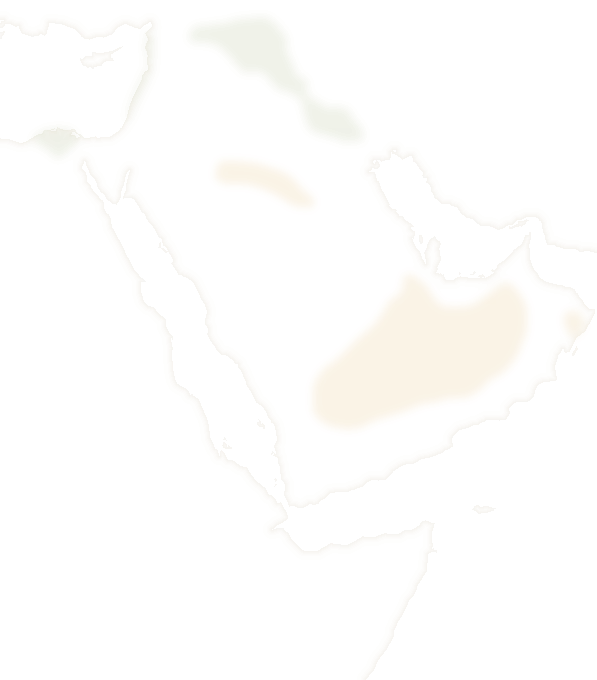
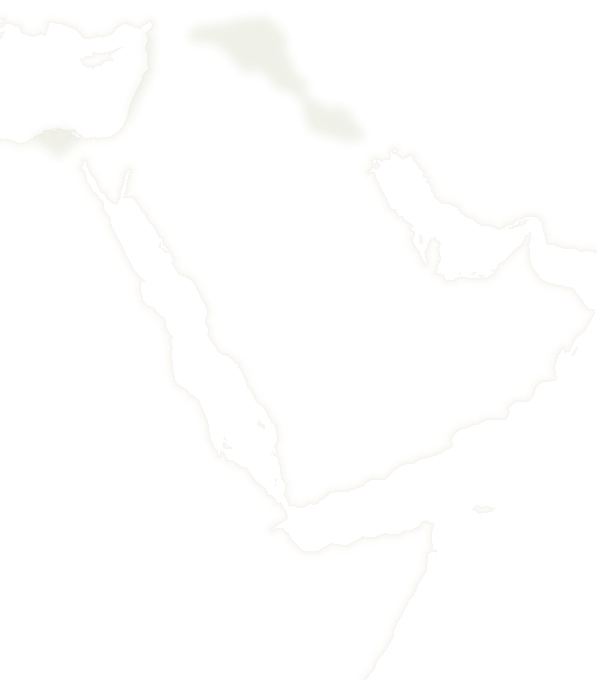
Deserts keep the land's colour: no sand tint or dune marks
Claude-Session: https://claude.ai/code/session_01N8euJch7UjcT7aCurQBqdT

Changed region(s): [[0.5427, 0.4324, 0.8744, 0.6176], [0.392, 0.2471, 0.4824, 0.2779]]

diff --git a/app/src/data/terrain.ts b/app/src/data/terrain.ts
@@ -1,6 +1,5 @@
 // Generated by scripts/build-terrain.py — Natural Earth 1:10m (public domain), same projection as land.ts.
-// Sand seas (outlines, for the dune texture), rivers and natural lakes; modern canals and reservoirs are left out.
+// Rivers and natural lakes; modern canals and reservoirs are left out.
 export const MAP_IMAGES = { relief: 'map/relief.webp', wash: 'map/wash.webp', depth: 'map/depth.webp', width: 1195.0, height: 1360.0 };
-export const SAND = 'M1152.9 670.1L1145.7 674.7L1138.3 669.2L1131.1 653.9L1127.9 636.5L1132.8 624.7L1139.8 622.6L1150.1 623.3L1160.4 628.9L1167.4 641.9L1166.3 651.6L1160.6 661.7L1152.9 670.1ZM591.0 363.4L610.0 385.8L622.1 395.1L626.4 400.9L626.7 409.0L623.1 414.3L595.3 412.3L581.1 407.3L559.1 392.9L542.2 384.3L505.4 370.8L486.9 368.0L458.6 368.4L444.2 365.9L433.9 358.1L431.9 351.1L432.1 341.5L434.4 332.3L438.4 326.0L443.0 323.8L479.0 323.7L499.1 325.4L526.1 330.7L562.7 343.3L574.0 349.0L591.0 363.4ZM900.8 615.1L925.7 615.2L946.4 608.2L968.6 594.3L1004.8 566.9L1013.2 564.8L1021.3 568.0L1028.4 574.4L1044.8 597.9L1052.6 615.8L1052.7 657.7L1051.0 667.8L1033.9 710.6L1017.3 732.1L1002.6 746.0L981.4 758.3L957.9 780.1L944.6 789.7L937.3 792.9L928.6 794.7L895.0 796.9L866.7 804.2L846.9 806.8L801.0 824.8L755.3 838.7L723.5 854.2L692.5 858.3L662.9 853.2L647.1 845.2L632.4 831.7L629.6 827.9L626.9 817.4L626.4 785.5L629.1 769.6L636.6 752.2L650.4 736.0L681.6 712.0L716.3 677.0L744.7 653.9L753.0 645.0L763.6 629.8L775.1 608.0L782.6 599.9L800.3 586.5L806.1 577.4L807.9 555.3L811.8 550.2L820.4 549.8L830.2 554.6L846.7 566.8L855.8 576.1L869.2 598.6L877.4 607.7L887.9 612.7L900.8 615.1Z';
 export const RIVERS = 'M417.2 -17.0L418.7 -17.0L425.8 -20.1L429.8 -20.7L430.9 -19.5L434.0 -18.5L434.9 -16.3L436.5 -15.1L447.5 -15.1L449.3 -13.3L449.1 -11.7L452.5 -10.3L455.3 -8.0L453.3 -4.6L458.1 -3.3L457.0 0.4L457.8 4.1L456.8 5.0L457.7 6.4L463.6 7.7L467.5 6.6L473.4 6.2L476.5 7.7L479.6 6.8L486.8 9.1L492.0 9.3L493.6 10.3L505.9 10.4L510.2 9.2L512.1 10.0L514.0 9.8L517.6 16.3L516.6 22.2L517.9 23.2L523.8 22.7L530.0 26.0L531.1 28.5L533.7 28.6L536.0 30.9L535.3 33.1L536.9 37.5M536.9 37.5L539.7 41.4L541.0 41.8L541.8 41.1L541.6 43.1L542.8 45.5L541.8 45.5L542.0 46.3L543.9 46.5L545.7 48.4L548.6 48.0L552.0 50.4L550.8 50.9L551.0 51.5L552.7 50.9L554.3 52.3L556.1 51.8L555.6 53.1L556.6 53.5L556.6 54.1L553.8 54.3L553.5 55.9L551.0 57.9L550.9 59.8L557.7 60.4L559.4 61.2L559.0 62.7L560.2 63.6L562.0 64.4L564.8 64.1L564.5 64.8L566.6 66.8L567.1 68.5L566.6 68.5L567.8 70.5L571.5 74.3L571.3 76.7L572.7 78.7L573.1 80.8L572.4 83.3L573.6 84.8L572.5 85.9L571.9 85.5L571.7 88.2M571.7 88.2L571.0 88.4L570.9 90.6L572.0 92.2L569.2 94.2L570.1 95.8L569.1 97.8L570.5 101.1L570.2 103.5L573.8 106.2L573.2 108.8L575.9 109.4L574.5 111.1L575.0 112.0L580.3 116.4L580.1 117.3L582.0 118.8L579.6 122.7L581.7 128.4L583.9 129.3L585.4 131.5L585.0 132.3L586.1 133.5L586.9 137.9L588.9 138.8L589.3 145.1L591.1 148.5L591.1 151.1L593.6 154.7L596.4 156.6L604.8 157.8L606.2 158.7L608.4 158.3L611.6 159.9L614.2 162.6L614.1 164.8L612.0 168.7L613.4 171.0L611.9 174.8L609.5 175.5L609.0 178.0L609.1 180.8L610.5 182.2L610.4 184.0L612.1 187.0L611.7 188.2L614.2 188.4L615.8 190.7L615.7 193.1L618.1 194.6L619.0 197.1L620.4 196.9L622.4 199.4L625.1 199.1L624.7 201.0L626.5 200.5L627.9 201.7L628.8 201.1L633.7 205.0L637.1 204.2L635.8 206.1L638.7 208.5L644.8 209.0L645.3 209.9L644.4 212.3L646.3 212.4L647.3 214.1L649.0 214.1L650.8 217.1L653.9 216.2L654.5 218.6L656.7 217.8L658.3 218.5L659.5 217.4L660.9 217.8L662.3 219.3L664.4 218.7L665.0 219.9M571.7 88.2L571.7 88.2M665.0 219.6L667.1 218.2L669.4 218.0L670.9 215.6L676.1 213.8L678.2 214.4L680.9 217.4L685.2 218.9L690.2 218.8L697.3 221.2L700.2 225.7L698.6 227.3L699.1 229.7L698.0 231.5L699.0 234.8L701.6 237.0L704.4 237.5L705.8 242.1L708.2 245.2L710.0 245.5L713.2 244.2L714.6 245.4L714.2 247.6L715.1 251.5L716.4 252.2L716.8 254.3L720.1 258.7L723.5 261.1L723.5 263.2L725.7 265.0L725.0 267.1L726.0 270.1L725.4 272.8L726.5 274.0L725.2 275.7L725.7 279.2M150.0 1375.5L144.3 1368.0L134.1 1356.8L131.5 1350.4L131.1 1346.3L131.9 1340.0L130.8 1336.8L134.2 1332.7L134.3 1327.7L140.5 1311.1L140.0 1303.6L141.8 1298.7L140.7 1289.6L136.9 1282.3L135.5 1281.7L133.9 1276.8L132.2 1274.9L130.3 1267.7L127.4 1263.5L126.6 1260.0L124.9 1259.2L123.9 1255.1L121.1 1250.4L117.6 1246.8M117.6 1246.8L114.9 1245.0L114.4 1243.3L106.3 1238.6L104.7 1235.3L101.4 1232.6L98.7 1224.7L94.9 1219.7L95.8 1219.3L95.8 1217.7L93.1 1213.7L94.4 1208.2L95.2 1207.9L94.2 1207.7L94.7 1207.0L90.6 1200.3L91.0 1199.9L89.3 1197.5L89.0 1195.4L87.8 1195.5L87.8 1194.8L86.8 1195.3L86.3 1194.0L86.6 1190.1L87.3 1189.9L86.5 1188.0L87.5 1187.4L86.8 1185.5L88.1 1181.6L85.0 1177.7L84.9 1175.7L86.2 1172.6L83.2 1169.6L84.2 1168.2L81.8 1160.4L88.1 1152.0L88.2 1147.7L86.8 1146.1L87.9 1145.4L90.5 1140.7L93.5 1138.6L98.8 1138.6L105.2 1140.0L110.5 1139.4L116.7 1142.7M116.7 1142.7L125.1 1144.8L127.1 1146.2L131.1 1145.4L134.9 1142.1L136.4 1139.3L135.8 1137.0L137.0 1135.2L138.4 1134.8L139.7 1133.2L143.0 1132.6L146.4 1129.9L148.5 1129.3L150.3 1126.2L154.1 1123.2L156.0 1119.7L157.5 1118.6L159.9 1112.6L158.5 1109.3L158.0 1102.8L153.4 1101.9L153.5 1098.0L161.9 1088.8L165.3 1087.8L168.6 1082.7L172.7 1080.2L173.5 1078.6L173.3 1067.6L174.6 1064.2L175.8 1057.0L178.1 1050.9L176.4 1043.7L176.3 1041.7L177.3 1040.2L176.3 1031.1L179.1 1020.2L179.4 1017.3L177.6 1009.2L178.1 1006.0L177.5 1003.7L179.6 998.5L177.3 993.3L172.8 990.0L170.9 985.7L170.9 981.3L172.3 977.2L172.2 974.9L168.4 973.1L167.1 971.1L167.0 968.2L162.1 963.3L161.4 958.8L159.7 954.4L157.4 951.1L155.3 944.8L156.9 938.7L156.1 935.2L157.2 931.1L160.8 927.2L162.2 924.0L165.2 921.5L165.1 916.8L167.4 909.0L167.6 906.2L166.1 901.0L167.7 894.6M1501.6 39.1L1494.5 43.0L1489.2 37.4L1485.2 35.6L1485.5 32.4L1484.3 30.8L1480.0 29.8L1477.3 31.2L1475.2 28.7L1471.0 31.2L1466.0 32.6L1463.4 29.7L1461.0 28.7L1460.0 26.4L1456.6 24.6L1446.5 25.5L1444.9 26.3L1439.2 25.2L1435.9 27.1L1434.5 26.0L1430.0 26.7L1427.2 25.0L1424.4 24.6L1422.0 22.4L1413.6 19.7L1411.4 17.2L1405.9 15.8L1402.3 13.4L1396.7 11.6L1393.2 11.7L1391.6 10.9L1387.2 2.3L1384.9 -0.3L1379.3 -4.2L1365.6 -8.7L1358.2 -13.1L1354.9 -17.6L1350.1 -21.3L1347.0 -27.3L1343.5 -29.9L1343.0 -33.8L1339.8 -38.3L1335.2 -40.1L1332.6 -43.6L1327.9 -45.5L1324.5 -48.8L1321.2 -49.9L1316.6 -52.9L1310.4 -52.9L1307.9 -54.0L1306.4 -56.2L1306.6 -62.0L1304.2 -63.4L1302.5 -66.1L1297.8 -66.7L1295.9 -69.7L1292.7 -71.2L1292.4 -72.5L1290.0 -74.7L1289.2 -77.6L1286.6 -80.4L1285.4 -84.6L1285.9 -87.8L1282.8 -97.2L1276.8 -100.0L1274.7 -103.1L1273.4 -106.4L1271.0 -109.5L1269.0 -115.4L1268.9 -120.0L1265.8 -124.4L1256.7 -130.0L1253.5 -131.1L1248.5 -132.0L1247.6 -131.7L1246.8 -129.4L1243.0 -130.8L1241.9 -133.2L1239.5 -135.6L1235.7 -136.5L1231.4 -139.1L1221.3 -146.7L1219.3 -150.3L1215.5 -151.1L1212.2 -156.0L1212.1 -158.7L1206.3 -160.4L1204.4 -165.2L1196.9 -170.7L1191.5 -173.0L1187.3 -172.5L1181.6 -174.7L1173.8 -181.0L1173.3 -182.6L1171.3 -182.3L1168.5 -184.0L1169.7 -186.6L1169.9 -189.2L1169.5 -190.0L1165.3 -191.4L1166.1 -194.9L1163.8 -199.1L1162.6 -199.9L1163.7 -202.6L1163.6 -204.5L1162.6 -208.6L1160.8 -210.7L1162.3 -212.4L1162.2 -213.8L1158.7 -219.2L1159.7 -222.0L1163.4 -221.7L1167.1 -223.7L1167.4 -230.3L1165.9 -232.2L1161.9 -234.1L1159.7 -237.9L1163.6 -241.6L1167.3 -243.1L1173.9 -243.6L1177.8 -245.9M120.9 315.0L114.6 311.1L111.7 311.4L110.9 309.1L109.3 308.3L108.9 306.6L105.8 306.7L105.8 305.5L107.5 305.1L106.2 304.0L106.5 301.9L105.7 300.1L106.5 298.2L105.4 297.9L106.0 296.5L104.7 295.5L103.6 291.3L104.3 289.5L102.9 289.4L103.4 288.0L105.2 286.9L103.1 286.9L104.3 285.3L102.9 284.6L103.9 283.1L102.7 280.9L103.2 280.7L100.8 276.3L99.0 275.4L96.0 272.0L94.3 272.1L93.9 270.5L93.1 270.5L94.0 266.9L92.7 265.8L91.8 266.1L90.6 264.6L90.5 262.8L89.6 262.3M117.5 313.0L116.2 310.9L115.9 306.7L114.1 305.0L116.0 304.7L115.8 303.4L116.7 303.9L117.1 302.2L120.5 299.3L120.5 297.6L121.8 297.9L122.1 293.6L120.0 286.5L121.5 285.9L120.8 284.7L121.6 284.5L121.1 284.0L121.8 283.1L121.6 281.5L123.1 280.6L124.6 278.4L126.8 277.8L129.8 272.7L130.9 273.1L131.3 272.1L134.9 272.2L135.4 270.3L137.3 269.6L136.6 268.9L137.9 268.4L138.8 264.7L142.3 263.1L142.1 261.7L143.6 259.0M283.8 204.0L282.9 211.2M277.2 267.0L278.3 264.0L279.3 254.3L282.3 249.4M293.7 176.1L291.9 177.9L291.4 179.5L288.2 181.8L286.2 184.4L283.6 192.7L283.8 204.0M282.9 211.2L282.2 212.7L283.0 217.6L282.0 219.2L283.0 220.3L281.7 223.6L282.5 225.3L282.0 225.3L282.8 230.5L281.4 235.6L281.7 236.5L280.9 237.7L281.8 242.2L281.0 243.2L282.3 249.4M277.2 267.0L276.4 270.8M402.3 1255.8L399.8 1259.2L402.5 1264.5L405.6 1266.3L406.7 1267.8L408.5 1271.1L409.3 1275.1L411.3 1276.7L417.5 1278.3L419.8 1280.3L423.4 1279.3L425.7 1281.3M424.8 1280.6L427.9 1284.3L427.7 1287.8L429.0 1288.3L429.9 1290.7L431.6 1291.4L431.7 1290.5L434.1 1290.3L437.0 1292.0L437.9 1293.5L437.6 1294.9L436.1 1296.2L436.1 1298.1L436.9 1298.8L442.4 1299.3L447.3 1304.2L448.9 1303.7L455.1 1305.8L467.9 1303.4L474.4 1297.4L482.6 1292.0L487.2 1291.6L487.8 1293.2L491.1 1294.3L490.7 1294.9L492.8 1300.6L494.7 1302.0L495.0 1304.2L496.6 1305.6L498.3 1311.6L497.9 1313.0L501.3 1319.6L505.3 1323.6L507.0 1326.5L506.3 1326.8L507.5 1329.5L507.5 1332.4L509.9 1335.6L511.3 1336.2L511.6 1335.7L513.9 1339.7L517.1 1342.4L518.9 1345.5L520.5 1347.1L521.5 1347.1M295.1 922.6L294.9 925.6L296.3 927.9L294.8 935.2M283.3 879.9L284.3 881.8L284.1 884.6L283.0 885.7L284.7 891.9L284.6 895.2L289.9 903.8L290.2 907.2L292.0 909.2L292.9 911.7L297.1 916.0L298.5 919.3L298.2 921.2L295.8 921.4L295.1 922.6M283.2 880.0L280.3 876.2L278.2 870.8L275.6 869.2L271.7 863.3L271.3 858.8L259.9 842.6L259.2 838.1L253.1 835.5L246.7 829.8L243.7 829.6L233.3 823.6L231.6 821.3L231.7 818.7L230.3 816.6L223.5 813.4M337.3 1153.9L337.2 1159.2L338.3 1160.5L340.1 1160.7L341.7 1162.9L342.7 1162.8L343.6 1165.5L343.5 1169.3L341.5 1170.7L341.4 1171.6L342.4 1172.4L342.6 1174.4L345.4 1175.7L349.2 1181.3L350.5 1184.5L354.3 1189.1L358.7 1190.8L358.2 1197.6L359.2 1201.0L357.9 1209.6L351.2 1221.2L349.3 1227.4L349.9 1229.5L352.9 1231.9L355.2 1231.2L356.4 1231.9L353.4 1234.8L351.2 1245.0L348.3 1245.2L345.5 1248.9L344.3 1253.0L338.4 1254.0L336.0 1255.6L333.8 1251.8L331.9 1251.6L329.9 1252.9L328.7 1252.1L324.6 1251.6L316.4 1259.0L310.7 1261.3L307.8 1263.8L302.8 1262.2L299.2 1266.3L299.8 1267.8L298.0 1269.4L298.1 1272.1L296.7 1273.4L297.2 1275.6L298.4 1276.2L298.9 1280.2L297.9 1281.7L296.9 1287.2L296.3 1296.8L294.8 1299.1L295.7 1302.7L295.1 1303.6L296.3 1304.7L296.6 1306.6L298.0 1305.2L299.8 1304.9L300.2 1305.8L302.7 1305.0L303.0 1302.6L303.8 1301.9L302.5 1301.5L303.8 1299.3L304.5 1299.8L303.5 1300.6L304.8 1300.9L305.5 1302.5L306.8 1301.8L306.6 1303.9L305.3 1305.1L306.1 1307.7L304.8 1307.7L306.3 1311.3L304.3 1313.3L300.9 1312.9L301.4 1314.9L302.0 1314.9L301.4 1315.5L300.4 1315.1L300.6 1316.6L299.8 1317.2L299.9 1318.2L300.4 1317.6L301.2 1318.4L300.6 1320.4L301.2 1320.9L301.6 1319.5L301.7 1321.1L302.7 1321.4L301.7 1324.9L300.9 1325.0L300.8 1326.1L297.9 1329.5L297.7 1332.0L299.2 1333.3L299.3 1336.0L300.4 1338.4M1254.9 271.8L1257.2 277.4L1261.2 280.2L1262.4 282.0L1262.4 286.7L1261.6 287.5L1263.1 290.6L1263.4 297.6L1262.6 302.7L1264.2 305.7L1267.1 307.6L1273.4 308.7L1285.7 313.2L1290.5 313.3L1302.3 309.7L1309.3 309.5L1312.0 308.0L1314.1 305.6L1316.5 305.0L1322.5 299.8L1329.0 296.7L1340.1 298.8L1343.2 297.3L1348.0 289.2L1348.2 284.5L1351.2 278.7L1350.4 276.5L1351.4 273.0L1358.3 262.8L1357.3 260.2L1357.8 253.5M366.6 965.0L364.6 965.1L360.8 963.1L357.7 956.1L355.7 954.8L355.4 952.8L353.8 952.0L353.0 949.6L350.9 947.9L350.6 945.7L347.0 941.7L341.7 942.3L340.0 944.0L339.2 948.1L336.3 949.5L334.1 947.8L326.7 946.7L319.9 948.3L317.1 950.6L314.2 950.3L312.2 948.8L309.5 948.1L304.3 951.1L300.2 951.2L296.3 949.3L295.1 947.0L293.3 945.6L294.3 944.4L295.0 941.2L294.3 939.4L295.2 937.8L294.8 935.2M94.7 1209.3L95.6 1209.2L96.9 1200.0L98.9 1195.3L98.8 1189.5L99.8 1185.2L98.5 1180.3L99.0 1178.5L103.1 1176.7L106.5 1167.4L106.4 1163.7L104.2 1160.8L104.9 1158.3L108.0 1156.2L108.1 1153.3L114.0 1148.5L115.9 1146.3L116.3 1143.8L117.2 1143.0M521.5 1347.1L524.7 1348.8L524.8 1350.6L524.0 1350.9L525.7 1352.9L528.8 1354.0L529.8 1352.8L531.6 1354.6L532.8 1354.1L534.7 1357.1L537.7 1357.9L539.8 1362.5L543.3 1363.9L544.1 1366.7L544.0 1368.0L542.9 1367.0L542.5 1367.8L543.2 1369.5L541.6 1372.9L541.8 1376.0L540.6 1377.8L542.5 1379.1L542.0 1380.8L543.6 1383.1L542.2 1383.7L540.2 1387.0L541.5 1390.0L541.2 1394.3L544.5 1396.2L543.8 1396.8L543.6 1400.2L540.2 1404.6L536.7 1406.7L535.5 1408.6L536.5 1414.4L534.1 1416.0L533.3 1418.7L535.4 1423.4L533.3 1425.0L532.3 1427.8L531.4 1428.1L530.7 1426.2L528.6 1425.5L527.2 1428.2L530.3 1429.3L531.3 1430.5L531.3 1431.5L529.5 1430.5L527.8 1432.5L528.4 1434.2L529.3 1434.5L529.5 1436.6L530.2 1436.3L530.9 1437.4L534.3 1439.0L532.6 1441.0L532.7 1444.1L534.1 1445.3L534.2 1448.0L537.5 1450.6L536.9 1451.9L538.9 1454.1L539.5 1457.4L538.2 1459.2L539.2 1459.1L540.0 1460.5L538.3 1460.9L538.2 1461.9L539.5 1463.4L540.2 1466.7L540.9 1466.4L542.0 1468.5L543.7 1469.3L543.6 1473.1L545.6 1474.4L544.7 1476.8L545.6 1480.4L544.8 1482.6L545.5 1483.9L544.8 1485.0L545.2 1487.1L547.1 1487.0L547.4 1489.9L548.8 1491.0L550.4 1494.6L549.9 1496.5L550.8 1497.5L551.2 1500.7L549.8 1501.7L551.2 1506.5L550.6 1508.6L551.4 1510.3L551.0 1513.4L550.0 1513.6L549.6 1514.8L549.8 1517.7L547.3 1520.7L544.8 1521.5L545.2 1524.0L544.1 1524.6L545.6 1527.0L545.4 1529.6L546.4 1529.8M626.8 261.4L628.3 261.7L629.3 263.9L635.3 265.2L637.4 267.1L640.0 267.4L641.5 268.6L642.3 267.3L643.6 266.9M-208.3 1354.6L-205.7 1353.0L-203.7 1350.5L-203.9 1348.9L-201.2 1345.0L-202.1 1343.1L-202.0 1341.0L-198.3 1340.3L-196.8 1336.5L-197.1 1334.8L-194.7 1331.0L-192.2 1331.5L-190.6 1329.4L-191.1 1328.0L-190.5 1327.0L-187.6 1326.6L-186.1 1330.0L-183.0 1331.5L-180.4 1330.5L-176.8 1334.6L-171.3 1336.4L-170.0 1333.6L-164.8 1330.6L-156.2 1327.2L-151.3 1327.3L-151.2 1325.3L-150.2 1325.8L-146.0 1323.2L-143.7 1323.9L-141.6 1321.7L-140.2 1321.8L-139.7 1322.8L-138.3 1319.9L-135.6 1319.5L-134.5 1318.6L-135.9 1317.5L-134.6 1315.1L-133.3 1317.3L-133.1 1316.0L-132.2 1315.7L-130.2 1316.5L-128.7 1318.4L-126.9 1319.0L-126.4 1320.6L-124.3 1321.7L-125.0 1322.8L-122.1 1323.3L-117.7 1322.5L-113.6 1320.3L-109.2 1321.9L-107.2 1319.2L-103.6 1319.6L-100.6 1318.7L-99.0 1314.3L-100.6 1312.6L-99.2 1309.1L-98.0 1308.3L-98.5 1307.6L-94.0 1305.7L-93.2 1306.3L-91.8 1305.8L-91.7 1305.0L-90.3 1305.0L-89.6 1306.4L-88.8 1306.4L-89.3 1307.2L-86.2 1308.0L-84.3 1310.0L-82.5 1309.5L-81.2 1312.2L-79.5 1311.3L-78.0 1313.2L-78.0 1312.4L-76.3 1312.1L-75.8 1310.9L-73.7 1312.4L-71.2 1311.6L-71.4 1310.2L-70.5 1310.5L-69.9 1309.6L-68.8 1310.7L-67.3 1310.5L-66.3 1312.7L-65.5 1312.4L-64.5 1313.6L-61.2 1314.6L-60.1 1314.0L-57.4 1317.6L-55.9 1318.1L-52.4 1316.8L-51.2 1317.3L-47.1 1316.2L-44.5 1318.4L-43.6 1317.9L-42.3 1318.5L-38.8 1313.9L-34.6 1311.9L-26.1 1314.7L-23.9 1316.2M293.3 1250.4L291.1 1252.8L285.6 1255.1L282.8 1251.8L282.4 1250.0L279.4 1250.0L276.4 1251.5L275.0 1254.5L272.8 1256.7L273.8 1257.7L273.5 1258.2L271.8 1259.2L266.3 1259.7L264.8 1261.4L260.5 1259.7L256.3 1255.8L253.0 1255.4L251.2 1254.3L250.3 1252.6L247.8 1250.8L243.6 1249.9L242.8 1244.4L240.4 1242.6L234.5 1240.8L231.4 1237.4L230.8 1233.3L229.0 1233.5L225.3 1230.0L225.2 1226.0L224.3 1223.6L219.6 1218.6L215.1 1216.1L213.4 1213.7L210.5 1212.3L207.3 1212.3L204.0 1210.0L199.7 1211.2L197.6 1210.7L195.4 1208.7L188.9 1208.1L186.3 1203.3M360.8 -75.2L354.0 -74.8L341.3 -71.8L332.7 -68.4L330.9 -69.5L321.7 -67.7L316.1 -64.4L312.6 -59.8L302.9 -53.0L301.2 -51.0L297.3 -49.2L296.8 -47.0L293.0 -45.0L291.2 -43.0L287.2 -41.4L282.3 -41.7L279.9 -38.9L276.0 -39.1L273.3 -38.3L272.3 -37.4L272.3 -36.1L267.4 -33.1L262.3 -30.3L257.9 -29.6L252.1 -31.1L247.7 -30.9L243.8 -33.1L237.8 -34.5L231.3 -38.8L229.9 -40.9L224.9 -42.6L222.6 -42.5L220.4 -44.2L216.9 -44.4L211.9 -46.8L205.6 -52.3L203.7 -53.1L203.3 -55.5L202.0 -56.0L201.5 -57.0L202.9 -64.1L205.0 -65.9L203.4 -67.2L204.4 -68.3L204.8 -71.2L204.0 -72.1L204.7 -73.0L202.3 -74.8L202.2 -77.9L203.2 -79.2L203.9 -83.3L207.8 -86.1L208.5 -88.8L209.9 -90.0L210.1 -91.6L211.0 -91.8L211.4 -93.2L223.6 -94.3L225.2 -96.8L228.3 -99.3L233.1 -99.4L243.9 -105.4L248.2 -105.8L256.0 -113.3L256.4 -114.8L255.4 -115.3L256.4 -116.3L255.2 -119.0L252.6 -120.1L251.2 -119.4L241.3 -124.0L240.4 -125.1L240.9 -125.6L252.2 -126.0L256.8 -129.3L257.2 -130.8L259.2 -132.0L259.3 -133.0L265.6 -136.0L266.9 -133.3L268.7 -132.4L268.3 -132.0L274.1 -130.2L276.8 -131.0L278.3 -133.0L280.3 -132.3L284.8 -134.6L289.7 -134.8L293.0 -137.4L293.0 -140.6L295.6 -145.9M1154.3 35.0L1152.1 33.1L1148.9 32.3L1147.2 32.5L1143.6 34.9L1137.2 34.4L1133.8 33.1L1122.0 24.8L1103.3 20.4L1096.7 14.8L1093.2 14.2L1091.8 13.0L1084.1 13.4L1079.4 11.3L1071.3 11.2L1067.6 9.8L1065.1 7.3L1059.7 5.8L1056.7 3.2L1055.0 2.7L1043.6 3.4L1037.7 4.6L1031.0 1.9L1026.4 1.6L1021.9 -0.6L1013.1 1.9L1008.5 6.3L1002.9 9.5L1001.3 11.2L1000.3 13.9L1001.1 15.9L1000.3 19.0L997.0 21.3L995.1 20.8L985.9 23.1L979.2 23.8L976.6 23.0L975.5 21.3L973.7 21.1L967.4 23.7M182.2 560.5L181.6 564.2L183.7 570.1L181.4 578.4L182.8 580.3L184.6 587.7L180.8 591.8L179.3 592.1L174.3 601.1L171.5 603.6L170.7 609.1L166.3 611.7L163.3 615.2L160.3 614.6L158.8 611.6L156.3 610.0L152.2 611.0L149.2 612.7L146.2 615.9L144.2 621.0L140.3 622.9L127.7 634.0L126.0 637.0L124.9 643.1L123.1 646.0L119.5 649.3L118.6 653.1L115.4 655.6M182.2 560.5L182.0 550.8L183.2 547.9L183.9 542.3L182.2 540.4L184.3 532.5L184.0 529.2L181.7 523.8L182.3 519.4L180.6 515.8L170.3 508.7L170.1 503.0L167.4 498.0L167.6 496.6L171.6 494.5L174.8 489.0L177.9 487.9L178.1 487.1L176.6 484.7L178.7 479.7L177.9 475.5L173.6 472.8L172.0 474.4L165.6 475.5L163.4 477.3L161.5 476.6L159.3 478.8L157.9 475.9L155.6 474.3L153.7 471.3L151.6 471.1L150.9 473.2L150.0 472.8L149.8 469.7L142.8 463.5L142.2 458.3L141.0 457.3L138.3 458.3L138.7 455.0L135.8 454.0L135.5 452.4L131.6 448.0L130.0 443.7L125.2 439.1L122.5 433.7L119.4 433.0L118.1 431.2L116.3 431.9L116.2 429.2L113.4 428.7L110.8 426.1L111.1 425.1L107.5 423.2L106.4 421.6L107.0 420.0L106.5 416.9L108.3 412.9L107.8 408.0L106.2 405.9L106.0 398.5L102.6 394.7L102.4 387.1L105.9 382.1L105.3 379.7L106.0 374.9L108.6 369.6L108.7 366.8L112.4 362.3L114.0 358.8L118.0 355.1L120.3 350.7L120.0 342.9L122.5 338.1L122.1 335.0L123.4 333.2L122.1 330.7L123.1 327.8L122.8 324.6L120.3 319.7L120.9 315.0M212.6 780.4L212.4 772.4L211.4 771.0L208.0 770.3L207.6 769.6L207.4 763.7L208.4 760.9L207.7 752.8L202.6 749.2L200.9 743.1L199.8 742.3L197.3 741.0L188.9 738.8L187.3 739.4L185.6 741.6L181.8 742.6L179.1 746.6L178.3 746.3L176.3 748.6L173.9 753.4L168.4 754.1L166.6 758.7L163.7 761.5L162.2 764.4L159.6 763.5L156.5 764.3L150.7 768.6L150.6 770.1L151.8 771.6L151.1 775.2L148.2 777.1L144.9 777.3L142.0 781.8L141.1 785.4L138.3 787.9L137.4 789.9L131.8 796.8L128.9 798.2L124.2 798.3L119.8 800.6L113.7 798.1L110.6 797.8L108.0 794.8L103.4 793.2L100.8 786.9L100.9 781.3L96.6 776.3L95.6 771.6L92.8 765.6L92.1 761.1L92.9 758.0L93.0 751.1L92.4 748.8L92.9 745.2L91.7 739.7L89.6 736.6L89.6 733.5L88.3 729.1L86.0 726.9L87.2 724.7L91.9 722.8L94.8 722.8L96.6 721.1L97.2 718.4L95.7 713.2L96.6 709.1L94.2 706.1L89.2 705.5L85.8 696.7L88.5 691.3L87.3 689.2L87.7 687.9L88.7 687.2L94.9 686.5L95.9 685.7L96.3 681.0L97.2 678.9L101.4 676.3L100.0 673.1L100.6 671.8L104.9 668.6L108.5 667.3L111.0 664.8L111.8 663.5L110.6 661.9L114.1 658.5L115.4 655.6M212.6 780.4L212.6 780.4M216.2 785.9L212.7 782.3L212.6 780.4M167.7 894.6L169.2 888.8L168.7 886.2L169.9 884.7L169.5 874.5L172.1 870.0L174.8 868.7L175.1 866.9L176.6 866.1L177.1 864.6L181.6 860.0L186.5 858.1L189.3 859.1L191.4 858.6L197.1 853.6L201.4 852.5L205.3 850.1L209.1 849.4L214.0 841.5L214.2 838.2L212.9 835.8L214.7 832.7L214.8 828.3L218.5 823.8L220.4 817.7L223.1 815.5L223.7 807.8L223.1 799.1L221.4 789.4L220.2 787.3L217.2 787.3L214.8 781.5L212.6 780.4M403.4 1242.3L406.6 1242.8L411.5 1239.2L418.5 1237.1L425.9 1233.5L427.9 1231.8L427.7 1230.9L429.9 1228.2L429.3 1226.6L430.2 1225.2L435.0 1221.1L438.7 1222.8L445.0 1220.3L448.5 1221.6L450.9 1221.4L452.7 1223.2L463.8 1215.3L467.8 1213.5L473.7 1207.7L477.5 1202.2L483.9 1201.4L492.8 1194.8L497.2 1193.7L500.6 1195.1L503.5 1194.5L505.0 1196.3L505.2 1199.9L506.8 1202.4L506.7 1203.8L508.5 1204.5L508.7 1210.0L512.1 1213.5L511.6 1213.9L512.8 1215.1L512.7 1216.0L515.7 1217.3L515.9 1218.1L519.6 1219.0L521.3 1218.1L522.0 1218.6L524.2 1217.2L524.9 1219.5L526.4 1220.0L526.5 1221.5L527.7 1221.7L529.4 1223.7L529.5 1226.4L531.3 1231.1L531.1 1233.0L528.5 1240.7L526.3 1243.2L525.8 1248.2L523.3 1254.3L524.2 1256.2L527.0 1258.6L527.4 1261.4L529.9 1262.8L530.9 1264.7L533.3 1266.9L536.6 1267.4L538.1 1268.5L549.8 1269.3L553.4 1273.5L568.7 1281.5L577.9 1281.4L582.7 1284.9L586.6 1285.7L594.4 1292.2L598.8 1292.9L604.4 1296.4L607.3 1296.1L613.2 1301.0L616.8 1301.2L617.5 1303.1L619.2 1304.3L622.4 1309.4L625.6 1310.8L628.7 1316.6L633.1 1318.0L634.2 1320.9L635.1 1321.4M194.5 1182.5L192.2 1182.2L192.7 1180.3L191.3 1179.7L190.9 1177.4L189.9 1177.5L188.7 1175.1L185.9 1175.4L184.3 1177.5L183.7 1175.5L180.4 1174.5L179.9 1175.0L178.0 1174.6L177.0 1175.6L176.1 1173.7L174.5 1173.4L176.2 1169.7L175.2 1168.1L171.9 1166.7L170.9 1163.8L169.0 1165.5L168.1 1164.8L167.8 1163.0L164.9 1162.5L164.2 1161.2L164.5 1157.9L163.1 1156.0L159.3 1155.0L157.6 1156.1L156.6 1155.0L156.9 1153.9L154.0 1151.6L154.1 1149.8L152.0 1150.1L150.6 1147.9L143.0 1145.4L142.4 1147.1L141.4 1146.9L141.1 1148.0L139.6 1147.9L138.9 1148.7L137.6 1147.6L134.1 1146.9L133.6 1146.3L134.1 1145.2L132.1 1144.9M186.3 1203.3L191.1 1195.8L193.6 1194.4L193.0 1191.8L194.5 1189.8L192.8 1188.3L192.7 1185.7L193.2 1183.8L194.5 1183.2L194.2 1182.5M607.5 210.7L609.3 212.2L610.5 214.3L610.1 214.9L611.3 215.9L612.5 215.5L613.8 220.6L615.7 222.9L622.4 224.2L624.7 223.6L625.0 225.4L628.0 228.8L627.7 237.2L633.8 241.1L634.1 242.8L632.6 246.0L634.2 248.4L634.6 251.4L646.0 261.7L646.7 263.9L645.3 264.7L642.6 264.5M635.1 1321.4L636.0 1324.5L640.8 1325.8L642.5 1330.7L642.1 1332.1L644.1 1335.8L645.5 1341.4L649.2 1346.7L650.7 1352.8L653.6 1354.3L653.7 1361.2L655.8 1363.0L656.4 1367.4L656.9 1367.2L658.0 1370.2L659.7 1372.0L659.8 1373.1L658.9 1373.5L659.6 1374.9L658.8 1381.4L657.8 1382.1L657.7 1384.5L656.6 1385.0L654.8 1390.8L654.8 1394.0L655.7 1395.8L655.1 1397.6L654.1 1398.3L655.4 1403.8L654.9 1407.5L653.8 1408.6L654.3 1411.5L653.6 1418.8L648.5 1427.3L643.8 1428.3L643.5 1430.0L639.5 1434.1L631.9 1435.3L631.7 1436.9L629.4 1439.3L628.5 1442.4L625.0 1444.5L623.4 1447.5L621.3 1448.6L620.7 1449.9L617.5 1449.1L614.8 1450.0L614.1 1451.9L612.0 1454.0L607.4 1453.9L601.8 1458.5L596.6 1460.5L593.0 1466.1L590.5 1468.3L589.9 1468.1L589.7 1469.7L588.5 1471.0L586.6 1471.5L586.2 1475.3L577.1 1476.0L573.7 1478.5L571.1 1482.1L570.0 1488.4L568.9 1488.1M485.2 142.9L489.4 145.2L491.5 145.0L493.6 144.2L492.1 143.0L493.8 142.0L495.5 143.3L496.6 141.7L501.6 143.0L500.5 141.6L501.3 141.1L502.3 142.9L504.7 142.5L505.2 143.0L507.5 142.2L507.7 140.8L512.1 141.7L514.2 140.3L514.6 139.1L516.9 141.0L521.6 141.1L523.9 144.4L527.5 146.7L528.2 148.8L531.9 147.4L532.2 149.1L533.2 149.1L533.9 146.1L535.3 146.0L537.1 147.2L537.2 148.4L534.9 149.7L534.6 151.0L537.3 152.4L536.7 156.5L537.9 157.1L538.7 159.3L539.5 159.5L541.2 158.1L543.6 161.1L543.6 163.0L542.2 164.1L542.5 165.2L544.6 166.1L545.8 164.1L546.9 163.9L550.2 165.0L551.2 165.9L549.7 167.7L550.7 170.1L549.4 171.3L551.3 171.8L554.5 174.6L557.6 178.8L560.6 178.7L562.6 180.2L564.6 178.5L570.0 182.0L573.5 181.1L574.5 181.9L576.5 182.0L576.7 182.9L578.3 182.8L578.6 183.8L580.9 183.1L583.7 185.1L584.2 184.1L587.3 186.6L588.3 186.0L588.6 188.0L589.5 187.9L590.3 189.9L591.4 189.6L592.3 192.7L594.0 191.5L595.9 193.8L597.1 193.2L600.1 194.3L598.8 194.8L601.3 196.4L602.7 198.8L603.4 198.7L604.0 202.6L605.0 203.0L605.5 204.5L606.9 204.8L608.3 208.0L605.8 217.2L608.5 221.3L608.2 223.6L610.7 229.0L610.8 235.3L615.3 242.6L616.3 249.4L615.2 251.8L615.9 253.6L620.4 256.0L622.9 259.0L626.5 261.3L629.3 260.4L632.4 262.8L634.4 262.3L636.5 263.4L639.8 262.9L642.3 263.9L643.7 266.9M643.7 266.9L652.3 267.8M643.7 266.9L643.7 266.9M652.1 267.8L654.7 268.5L654.6 269.9L656.0 271.9L657.9 271.8L660.5 273.5L662.6 272.9L668.2 274.9L672.0 275.4L673.7 274.9L676.1 277.1L681.6 278.2L691.3 284.7L700.1 281.5L707.7 281.6L709.9 280.8L719.1 281.2L720.6 282.0L721.5 280.9L725.7 279.3L726.4 279.4L727.0 281.3M102.9 289.4L100.3 285.1L90.0 276.0L81.0 274.5L76.4 272.5L73.1 270.0M402.1 -32.5L403.8 -35.0L402.5 -36.2L402.8 -39.3L401.0 -43.1M391.0 -29.6L390.6 -27.7L387.9 -26.4L386.5 -23.8L388.5 -20.3L399.2 -16.8L403.7 -17.6L406.5 -14.6L409.2 -13.2L413.5 -13.9M410.1 4.0L410.0 6.8L407.8 7.0L406.6 8.5L409.1 7.9L409.5 9.5L406.6 10.4L407.9 11.5L403.3 12.1L405.9 13.9L397.5 15.0L391.9 20.0L385.6 20.4M502.5 -87.2L497.4 -80.2L495.8 -79.3L486.5 -78.4L480.6 -76.8L476.8 -77.6L473.8 -76.8L465.6 -78.1L462.4 -77.4L459.4 -77.6L454.1 -76.0L453.4 -74.2L457.5 -70.5L457.8 -69.1L455.5 -67.0L455.0 -63.7L451.9 -62.4L444.8 -63.4L432.3 -67.8L427.6 -68.0L422.2 -65.2L418.3 -64.5L412.6 -64.6L405.8 -63.3L401.6 -61.8L400.0 -60.0L397.0 -60.5L392.5 -58.1L390.5 -58.2L386.9 -56.0L387.2 -54.9L395.1 -49.0L396.6 -46.9L400.0 -46.6L401.0 -43.1M402.1 -32.5L398.7 -30.6L397.2 -31.3L396.5 -29.9L392.4 -30.3L391.0 -29.6M413.5 -13.9L415.1 -13.7L416.2 -12.3L415.1 -7.7L416.1 -7.1L419.1 -8.2L420.3 -6.1L419.2 -2.6L413.5 0.0L412.3 3.0L410.1 4.0M385.6 20.4L383.6 20.9L382.8 22.1L381.2 21.9L380.2 23.5L377.0 21.9L375.9 22.5L373.0 22.2L367.9 27.8L367.5 29.3L368.8 31.5L367.9 30.9L367.5 31.9L368.8 34.8L368.6 37.4L370.5 38.3L372.6 38.0L372.1 40.0L373.7 41.7L374.9 44.8L374.2 45.2L374.4 46.6M340.3 1045.8L341.0 1044.1L342.2 1043.7L345.7 1042.9L347.2 1043.9L349.7 1047.6L350.5 1054.7M342.8 1078.6L339.8 1076.3L337.8 1072.4L336.0 1072.3L334.7 1069.4L335.1 1067.0L336.8 1065.1L336.0 1060.2L338.8 1056.1L338.4 1054.6L340.2 1054.1L342.1 1051.1L343.6 1051.1L342.6 1049.2L340.4 1047.6L340.3 1045.8M394.4 85.5L390.6 85.6L384.6 83.3L380.0 81.1L376.6 77.8L375.7 74.4L377.9 71.0L380.5 69.4L380.3 66.3M374.4 46.6L375.9 51.6L377.1 52.8L381.3 54.1L384.4 58.9L383.4 59.5L383.0 61.5L381.0 62.4L380.3 66.3M394.3 85.5L400.4 86.0L401.8 84.6L401.0 84.4L401.2 83.6L403.3 83.5L403.8 82.7L412.1 82.8L414.1 84.6L419.9 85.6L421.4 86.8L425.6 86.0L426.3 88.0L429.2 87.7L431.5 88.8L432.8 88.3L433.0 89.6L434.0 88.2L438.5 90.7L439.4 89.9L440.8 90.6L442.0 92.7L441.9 95.0L442.7 96.4L444.0 96.4L443.5 97.2L445.0 98.9L446.2 98.6L450.3 101.6L452.2 104.2L451.9 105.2L454.5 106.9L456.6 107.6L456.8 108.5L458.1 107.7L457.6 109.3L459.1 108.8L460.4 109.3L460.8 110.5L463.7 111.5L463.0 112.6L464.1 114.6L464.2 116.7L465.7 117.3L464.7 118.6L466.5 120.5L467.8 120.4L469.2 121.7L469.8 124.7L470.4 125.2L471.4 124.7L472.0 128.1L474.2 128.8L476.7 131.3L478.2 130.8L479.1 132.1L478.3 133.2L479.4 134.0L480.6 133.2L481.4 134.9L482.7 135.3L482.4 136.9L483.4 138.9L482.6 140.0L482.9 141.3L485.2 142.9M238.2 1048.7L238.3 1052.4L239.7 1056.4L253.1 1068.1M238.2 1048.7L237.6 1041.9L235.5 1034.5L237.1 1031.0L237.2 1025.4L233.8 1021.7L231.1 1021.0L229.6 1019.4L229.7 1017.9L231.0 1016.4L229.2 1013.9L229.4 1009.0L226.5 1006.5L225.5 1004.3L223.7 1005.4L224.9 1002.9L223.3 1001.1L223.7 999.5L221.9 997.2L223.2 995.1L223.0 993.6L221.1 993.2L222.2 990.5L219.6 988.9L219.2 987.2L217.9 987.9L215.7 986.7L213.4 987.1L211.4 983.3L211.9 981.1L210.1 978.2L210.1 976.9L208.0 976.2L209.8 972.2L209.3 971.1L207.7 971.0L207.3 969.9L210.1 969.1L207.6 968.0L207.0 966.7L209.5 965.5L209.9 963.5L208.6 961.5L210.3 960.9L210.6 960.1L209.6 958.5L211.1 957.6L212.1 954.4L210.6 951.7L209.5 951.6L209.9 948.4L207.2 946.0L207.0 942.6L205.9 943.2L205.3 940.7L203.9 940.0L199.4 930.0L198.6 930.8L198.2 930.3L198.1 928.4L197.1 927.8L194.8 923.3L195.0 919.3L193.6 917.4L193.0 914.6L190.9 913.0L189.9 910.8L186.8 908.6L182.7 907.8L178.8 905.7L175.9 903.1L175.5 901.0L172.5 898.2L170.8 895.3L167.6 894.7M274.5 1114.0L273.2 1111.8L273.7 1107.7L272.1 1103.8L271.6 1100.1L266.9 1097.1L266.4 1095.3L268.9 1084.3L267.6 1079.9L268.6 1075.7L265.1 1073.0L263.8 1070.7L254.9 1069.8L253.1 1068.1M88.5 1426.7L91.1 1415.0L90.8 1411.4L88.3 1405.4L79.6 1404.5L78.4 1405.0L70.9 1400.1L67.1 1399.0L64.7 1397.0L56.6 1396.0L55.8 1392.5L56.5 1389.8L55.5 1388.0L50.5 1388.6L48.5 1387.8L45.6 1383.1L42.6 1380.3L42.7 1378.4L40.4 1375.5L37.8 1376.8L36.7 1375.8L36.5 1376.7L35.2 1376.6L33.2 1377.9L29.8 1376.2L28.9 1376.8L24.1 1375.7L21.9 1376.2M21.9 1376.2L14.1 1373.4L12.8 1374.0L12.2 1375.3L9.7 1375.7L6.4 1371.0L1.9 1370.2L-1.0 1372.0L-5.0 1372.3L-8.8 1374.2L-13.5 1373.2L-19.0 1374.3L-20.3 1373.6L-21.1 1371.7L-24.9 1370.2L-26.0 1367.0L-28.1 1365.7L-28.9 1366.5L-31.2 1366.6L-30.4 1373.9L-32.8 1375.0L-34.9 1377.3L-35.2 1379.7L-37.7 1378.2L-43.2 1379.8L-44.8 1376.9L-44.5 1367.2L-46.6 1365.7L-47.9 1360.1L-50.9 1359.3L-56.2 1363.5L-60.1 1369.0L-65.1 1371.2L-66.8 1373.8L-69.7 1374.1L-72.5 1373.2L-73.8 1371.2L-77.7 1371.6L-80.1 1372.9L-80.6 1377.7L-82.4 1379.0L-87.3 1376.2L-93.9 1379.2L-96.4 1378.4L-101.1 1379.7L-102.5 1378.6L-106.9 1383.1L-110.4 1382.8L-112.2 1384.2L-113.4 1381.2L-114.5 1380.6L-120.2 1380.0L-123.1 1381.5L-125.5 1380.0L-128.7 1381.0L-131.4 1378.7L-135.9 1377.6L-142.5 1371.6L-145.4 1371.9L-150.2 1371.0L-153.2 1372.4L-157.8 1371.7L-159.3 1368.9L-164.0 1365.8L-166.2 1365.7L-168.3 1367.2L-171.5 1366.5L-173.6 1367.5L-181.2 1363.9L-185.3 1365.6L-187.2 1364.4L-190.1 1365.8L-193.1 1365.3L-196.0 1366.6L-201.7 1362.9L-202.4 1361.0L-204.2 1359.8L-205.6 1355.3L-216.3 1354.0L-219.3 1351.9L-224.0 1350.2L-228.1 1350.5L-233.9 1348.3L-237.1 1348.2L-241.3 1350.2L-247.4 1348.9L-250.7 1346.7L-253.5 1348.3L-257.2 1346.4L-258.6 1344.2L-266.2 1341.9L-270.1 1343.1L-277.1 1343.4L-281.9 1338.8L-281.7 1335.1L-284.0 1332.9L-286.1 1329.1L-289.9 1327.7L-292.4 1324.9L-298.6 1321.0L-302.8 1319.9L-305.3 1316.1L-308.9 1314.6L-314.9 1313.8L-320.8 1314.8L-322.2 1316.5L-327.3 1319.6L-328.8 1322.0L-331.8 1322.4L-333.5 1324.3L-335.7 1329.4L-342.5 1337.6L-345.3 1344.0L-348.3 1345.5L-351.9 1345.1L-352.7 1345.8L-353.4 1347.8L-350.3 1353.2L-349.3 1358.2L-349.5 1361.7L-350.5 1363.9L-351.1 1372.9M350.5 1054.6L350.9 1058.0L359.0 1060.5L363.9 1067.5L368.6 1071.0L377.3 1073.6L384.5 1074.0L387.5 1076.4L389.7 1076.4L391.4 1079.0L392.8 1083.8L392.3 1086.8L393.1 1089.0L392.5 1092.8L391.0 1095.7L392.0 1105.2L390.5 1110.2L389.4 1111.3L389.1 1114.3L382.6 1115.3L380.6 1117.8L369.6 1122.8L365.8 1125.6L362.3 1126.3L358.8 1123.5L355.9 1119.7L349.8 1117.5L348.5 1119.3L347.8 1119.1L346.9 1116.2L344.3 1115.8L343.0 1114.6L342.5 1113.3L343.4 1109.8L340.3 1109.5L337.8 1107.9L328.0 1105.8L327.0 1104.9L319.4 1104.8L318.2 1103.8L318.2 1101.7L317.4 1100.9L314.9 1102.1L314.7 1104.4L312.7 1105.9L311.5 1108.2L311.4 1110.7L309.3 1113.6L307.2 1114.5L303.9 1113.9L298.0 1114.5L294.6 1118.8L292.8 1119.1L288.6 1118.0L288.9 1120.6L288.3 1121.1L286.4 1121.5L285.3 1119.7L279.9 1115.7L277.9 1114.8L276.6 1115.6L274.5 1114.0M727.0 281.3L732.7 288.6L736.7 290.2L737.7 296.6L740.2 298.0L742.2 300.5L751.7 302.1L753.2 303.7L754.3 307.0L758.3 307.5L762.1 311.9L761.1 314.2L763.8 319.9L766.7 321.6M150.0 1375.5L150.2 1376.5L147.8 1377.5L146.0 1380.0L142.4 1379.1L142.5 1378.6L137.9 1380.5L134.3 1386.6L131.2 1395.3L127.5 1400.2L126.1 1403.9L125.9 1407.2L128.4 1409.9L128.8 1412.2L127.7 1413.5L127.8 1415.3L129.9 1419.2L131.8 1420.0L130.0 1422.2L129.8 1424.0';
 export const LAKES = 'M104.9 -10.8L108.0 -11.0L106.7 -6.0L109.2 -4.9L110.8 0.4L107.4 5.9L103.5 1.6L106.5 -3.1L106.2 -4.4L102.9 -6.8L102.8 -8.9L104.9 -10.8ZM130.2 15.6L129.4 15.7L129.1 14.9L129.2 11.3L124.1 3.3L123.9 2.0L127.7 0.9L133.0 5.2L134.5 8.8L136.2 8.2L138.3 11.8L138.4 12.9L131.7 14.6L131.6 15.8L130.2 15.6ZM347.4 1050.4L347.0 1048.0L346.3 1047.3L343.9 1046.8L341.6 1047.6L340.7 1047.0L340.6 1045.7L339.9 1046.0L339.3 1047.9L338.7 1046.8L337.6 1046.4L337.1 1044.8L335.8 1044.6L336.7 1033.2L338.6 1030.3L341.2 1028.7L342.3 1029.6L342.7 1031.2L345.5 1031.7L346.4 1031.4L347.1 1029.4L348.3 1028.4L349.6 1029.2L350.8 1028.4L354.7 1027.8L358.5 1035.5L357.5 1040.8L356.2 1043.2L354.4 1043.8L355.0 1046.5L353.1 1047.6L350.5 1054.7L348.3 1054.7L347.1 1053.4L347.3 1052.1L348.9 1051.8L347.4 1050.4ZM285.3 206.0L285.1 209.9L283.8 211.3L282.9 211.2L280.7 207.2L281.0 205.9L283.5 204.1L284.9 204.7L285.3 206.0ZM324.8 1409.2L325.2 1410.8L324.4 1411.4L325.0 1420.5L322.5 1423.6L319.6 1424.2L318.6 1423.1L318.1 1417.9L316.6 1415.5L315.3 1414.8L315.0 1410.8L313.0 1406.1L308.5 1402.5L308.0 1400.8L306.7 1401.5L305.6 1400.7L303.5 1400.5L304.3 1391.5L299.8 1389.9L298.6 1387.8L296.8 1386.4L296.5 1378.4L295.9 1378.3L296.3 1380.1L295.7 1380.7L295.3 1380.2L294.9 1377.5L292.8 1374.8L292.5 1371.2L293.5 1368.3L293.3 1361.6L295.9 1355.3L295.6 1343.1L296.9 1336.9L298.3 1334.6L298.9 1334.6L299.9 1339.0L300.9 1337.6L299.7 1335.9L300.4 1334.5L302.7 1334.5L303.5 1335.1L303.4 1333.5L304.5 1333.4L305.7 1335.0L305.0 1335.4L306.1 1338.1L306.5 1342.3L305.8 1346.4L306.8 1348.6L306.8 1352.0L307.6 1352.7L307.9 1354.2L305.5 1361.5L308.7 1369.9L307.9 1372.2L306.8 1372.8L306.6 1373.6L306.5 1378.4L307.9 1385.2L307.1 1387.1L309.6 1390.3L310.2 1392.3L312.8 1395.1L313.7 1399.6L318.6 1403.9L323.3 1404.1L324.5 1404.8L324.8 1409.2ZM282.3 249.4L283.3 249.9L283.4 250.8L282.1 258.5L282.8 261.3L281.9 266.7L280.6 267.8L280.1 267.3L280.5 265.3L277.9 267.1L276.9 266.9L276.1 259.4L276.9 257.3L276.6 255.4L279.2 250.8L280.3 249.8L282.3 249.4ZM668.5 24.0L668.8 25.5L667.5 25.0L666.0 25.8L665.2 27.1L662.8 28.6L661.1 28.2L661.0 27.1L659.5 27.6L658.1 29.4L657.2 34.0L656.0 35.0L654.0 34.2L652.1 35.2L649.6 32.1L648.1 31.6L646.7 29.4L645.4 25.5L646.9 24.4L645.8 21.0L644.6 19.8L645.4 17.1L644.1 15.8L644.6 15.4L643.6 13.2L644.6 12.2L644.3 9.6L643.1 7.8L641.1 6.5L640.3 6.8L637.1 5.7L636.6 1.8L637.1 0.5L638.2 -0.6L641.6 -1.5L642.3 -4.5L641.3 -6.6L640.1 -5.2L639.0 -6.4L636.7 -5.1L635.0 -5.5L635.0 -7.0L636.7 -8.3L636.6 -10.0L638.3 -10.7L648.3 -10.6L652.9 -6.6L653.6 -3.8L652.5 -1.7L653.1 0.5L651.8 1.1L652.3 1.6L650.0 4.0L650.6 8.1L653.3 10.9L654.2 10.5L654.3 9.5L658.9 9.3L662.5 11.5L663.0 10.9L663.2 12.0L664.6 13.4L664.3 14.3L659.5 14.4L661.2 15.5L661.9 17.4L664.4 19.0L666.8 23.1L668.5 24.0ZM655.1 26.3L655.7 26.4L654.6 24.1L655.0 23.3L653.4 22.5L653.8 23.5L652.9 24.0L654.7 25.0L655.1 26.3ZM659.2 20.5L659.7 20.8L659.6 19.9L657.4 19.7L656.8 18.9L655.9 20.5L657.7 21.6L659.2 20.5ZM373.4 1255.3L373.8 1255.1L374.3 1256.6L376.2 1257.8L378.6 1256.2L379.0 1258.0L377.5 1260.5L378.0 1262.0L377.0 1262.0L376.5 1264.0L374.8 1265.2L373.7 1267.4L373.5 1269.8L371.1 1271.3L369.1 1274.2L367.8 1278.0L367.2 1276.4L366.5 1278.2L363.3 1280.0L361.7 1279.6L362.5 1275.3L367.0 1272.0L367.8 1272.7L367.6 1274.2L368.8 1272.1L368.9 1269.6L369.6 1269.0L368.0 1262.1L368.7 1259.6L369.9 1259.4L372.1 1256.3L373.4 1255.3ZM280.5 272.0L281.2 273.2L280.2 274.4L280.7 275.6L278.6 276.5L276.4 276.0L274.8 271.6L275.2 270.6L276.4 270.8L277.1 269.9L280.5 272.0ZM698.5 290.0L700.1 289.7L700.9 290.2L700.4 290.2L700.6 291.0L698.5 290.0ZM732.0 291.5L733.2 292.7L729.7 293.5L729.3 293.0L727.3 294.1L725.5 294.1L724.6 293.7L724.0 292.0L716.6 291.6L713.0 290.5L713.1 289.4L709.7 290.3L709.0 291.2L708.3 290.8L708.9 290.0L707.1 289.7L706.8 288.3L706.1 288.1L703.7 289.4L706.0 290.2L706.2 290.8L704.2 291.6L703.1 291.4L701.7 290.2L704.0 288.6L701.9 288.6L701.4 288.0L702.2 286.9L698.9 287.6L698.1 287.2L699.6 286.1L697.6 284.5L701.1 283.8L701.9 282.8L701.7 283.7L702.2 284.2L702.3 283.0L703.2 282.7L703.7 283.5L705.8 283.4L705.8 284.7L706.0 283.9L708.3 285.0L708.1 285.6L710.4 287.5L711.2 287.7L712.8 286.4L713.7 286.5L714.1 286.8L713.0 287.2L716.7 287.6L717.8 288.9L717.3 289.7L721.2 290.2L722.2 290.0L724.6 287.2L728.3 287.5L728.7 288.0L727.5 289.0L723.7 289.7L724.4 290.6L729.0 290.2L731.9 290.8L730.9 290.8L732.0 291.5ZM538.6 1051.6L539.6 1053.0L538.2 1055.0L537.2 1052.3L538.6 1051.6ZM362.2 1281.8L363.2 1282.4L363.3 1283.8L362.4 1288.6L356.8 1291.8L356.5 1288.7L358.7 1285.1L358.9 1283.3L361.8 1281.3L362.2 1281.8ZM515.3 1068.9L518.4 1071.7L516.9 1074.6L514.3 1076.8L511.5 1074.4L510.9 1072.7L511.1 1071.0L512.4 1069.2L514.3 1068.5L515.3 1068.9Z';

diff --git a/app/src/map/HistoricMap.tsx b/app/src/map/HistoricMap.tsx
@@ -1,7 +1,7 @@
 import { memo, useCallback, useEffect, useLayoutEffect, useMemo, useRef, useState, type PointerEvent as ReactPointerEvent, type ReactNode } from 'react';
 import { createPortal } from 'react-dom';
 import { COS, K, LAND } from '../data/land';
-import { LAKES, MAP_IMAGES, RIVERS, SAND } from '../data/terrain';
+import { LAKES, MAP_IMAGES, RIVERS } from '../data/terrain';
 import type { MapArc, RouteStop, Sirah, SirahEvent } from '../data/types';
 import type { Locale } from '../i18n';
 import { mapCopy } from './copy';
@@ -364,10 +364,6 @@ export default function HistoricMap({ data, locale, emphasis, selected, activeRo
           <pattern id="hmap-hatch" width={6 * unit} height={6 * unit} patternUnits="userSpaceOnUse" patternTransform="rotate(45)">
             <line x1="0" y1="0" x2="0" y2={6 * unit} className="hmap-hatch-line" strokeWidth={unit} />
           </pattern>
-          {/* Sand seas: rows of small dune crests, sized in screen pixels. */}
-          <pattern id="hmap-dunes" width={18 * unit} height={12 * unit} patternUnits="userSpaceOnUse">
-            <path className="hmap-dune" d={`M${2 * unit} ${5 * unit}q${3 * unit} ${-3.2 * unit} ${6 * unit} 0M${11 * unit} ${11 * unit}q${3 * unit} ${-3.2 * unit} ${6 * unit} 0`} strokeWidth={0.9 * unit} />
-          </pattern>
         </defs>
         <rect className="hmap-sea" x={-WIDTH} y={-HEIGHT} width={WIDTH * 3} height={HEIGHT * 3} />
         {/* The sea's depth, baked (scripts/build-terrain.py): pale shallows along the coast, deeper water offshore. */}
@@ -381,12 +377,10 @@ export default function HistoricMap({ data, locale, emphasis, selected, activeRo
           </g>)}
         </g>
         <path className="hmap-land" d={LAND} strokeWidth={1.1 * unit} />
-        {/* Terrain from Natural Earth (scripts/build-terrain.py). The soft washes (sand, fertile land, the shade inside the
-            coast) and the shaded relief are images: an SVG is redrawn on every frame of a glide, and an image is cheap to
-            move. Only the crisp details are drawn: dune crests, lakes and rivers. */}
+        {/* Terrain from Natural Earth (scripts/build-terrain.py). The soft washes (fertile land, the shade inside the coast) and the shaded relief are images: an SVG is redrawn on every frame of a glide, and an image is cheap to
+            move. Only the crisp details are drawn: lakes and rivers. */}
         <g className="hmap-terrain" aria-hidden="true" clipPath="url(#hmap-land-clip)">
           <image className="hmap-wash" href={img(MAP_IMAGES.wash)} x={0} y={0} width={MAP_IMAGES.width} height={MAP_IMAGES.height} preserveAspectRatio="none" />
-          <path className="hmap-sand-texture" d={SAND} fill="url(#hmap-dunes)" />
           <image className="hmap-relief" href={img(MAP_IMAGES.relief)} x={0} y={0} width={MAP_IMAGES.width} height={MAP_IMAGES.height} preserveAspectRatio="none" />
           <path className="hmap-lake" d={LAKES} strokeWidth={0.8 * unit} />
           <path className="hmap-river" d={RIVERS} strokeWidth={1.1 * unit} />

diff --git a/app/src/map/map.css b/app/src/map/map.css
@@ -196,15 +196,12 @@ html[data-contrast='dark'] .hmap-arc.out-honoured .hmap-arc-name, html[data-cont
 .hmap-arc-runner { opacity: 0; animation: hmap-fade-in .15s linear both; animation-delay: calc(.6s + var(--i) * .2s); }
 html[data-reduced-motion='true'] .hmap-arc-runner { display: none; }
 
-/* Terrain (Natural Earth): baked washes and sea depth, shaded relief, dune crests, lakes and rivers. */
+/* Terrain (Natural Earth): baked washes and sea depth, shaded relief, lakes and rivers. */
 :root { --relief-opacity: .8; --wash-opacity: 1; --depth-opacity: 1; --river: #7d9a97; }
 html[data-contrast='light'] { --relief-opacity: .5; --wash-opacity: .6; --depth-opacity: .5; }
 html[data-contrast='dark'] { --relief-opacity: .4; --wash-opacity: .45; --depth-opacity: .25; --river: #4f6f6c; }
 .hmap-terrain { pointer-events: none; }
-.hmap-sand-texture { opacity: .4; }
-.hmap-dune { fill: none; stroke: #b08a4e; stroke-linecap: round; opacity: .5; }
-html[data-contrast='dark'] .hmap-dune { stroke: #c2a170; opacity: .35; }
-html[data-contrast='dark'] .hmap-relief { opacity: var(--relief-opacity); }
+html[data-contrast='dark'] html[data-contrast='dark'] .hmap-relief { opacity: var(--relief-opacity); }
 .hmap-wash { opacity: var(--wash-opacity); }
 .hmap-depth { opacity: var(--depth-opacity); pointer-events: none; }
 .hmap-lake { fill: var(--sea); stroke: var(--coast); stroke-linejoin: round; stroke-opacity: .6; }

diff --git a/app/scripts/build-terrain.py b/app/scripts/build-terrain.py
@@ -3,9 +3,10 @@
 Writes:
   public/map/relief.webp   shaded relief (Natural Earth SR_HR, 1:10m) as soft brown shadows only: sunlit slopes and
                            flat ground stay clear, so the land keeps its own colour (a paler land made the map glare)
-  public/map/wash.webp     soft washes on the land: sand seas, fertile lands, and a shade just inside the coast
+  public/map/wash.webp     soft washes on the land: fertile lands, and a shade just inside the coast
+                           (deserts keep the land's own colour)
   public/map/depth.webp    the sea's depth: a slight darkening offshore (the sea keeps its colour at the coast)
-  src/data/terrain.ts      outlines of the sand seas (for their dune texture), rivers and lakes
+  src/data/terrain.ts      outlines of the rivers and lakes
 The soft layers are baked into images because a browser redraws an SVG on every frame of a pan or zoom, and wide
 blurred strokes along a long coastline are slow to draw; an image costs almost nothing to move.
 
@@ -100,8 +101,6 @@ def lines(geom):
 
 load = lambda name: json.loads((SRC / f'{name}.geojson').read_text())['features']
 regions = load('ne_10m_geography_regions_polys')
-SAND = {"RUB’ AL KHALI", 'An Nafud Desert', 'Wahiba Sands'}
-sand = path([r for f in regions if f['properties']['NAME'] in SAND for r in rings(f['geometry'])], True, 1.0)
 FERTILE = {'Nile Delta', 'Mesopotamia', 'Levant Coast'}
 
 modern = ('Canal', 'Channel')
@@ -114,9 +113,8 @@ lakes = [f for f in load('ne_10m_lakes') if f['properties'].get('name') in LAKES
 lake = path([r for f in lakes for r in rings(f['geometry'])], True, 0.4)
 
 ts = f"""// Generated by scripts/build-terrain.py — Natural Earth 1:10m (public domain), same projection as land.ts.
-// Sand seas (outlines, for the dune texture), rivers and natural lakes; modern canals and reservoirs are left out.
+// Rivers and natural lakes; modern canals and reservoirs are left out.
 export const MAP_IMAGES = {{ relief: 'map/relief.webp', wash: 'map/wash.webp', depth: 'map/depth.webp', width: {WIDTH:.1f}, height: {HEIGHT:.1f} }};
-export const SAND = '{sand}';
 export const RIVERS = '{river}';
 export const LAKES = '{lake}';
 """
@@ -154,7 +152,6 @@ def save(img, name):
 
 wash = np.zeros(land.shape + (4,), np.float32)
 wash = over(wash, (138, 154, 88), feather(mask(projected(FERTILE)), 10) * .14)      # fertile: olive
-wash = over(wash, (232, 201, 140), feather(mask(projected(SAND)), 9) * .22)         # sand: warm gold, light enough for lines to read over it
 wash = over(wash, (168, 141, 99), np.exp(-inland / 7) * .13 * (land > .5))         # shade inside the coast
 depth = np.zeros(land.shape + (4,), np.float32)
 depth = over(depth, (60, 84, 86), (1 - np.exp(-offshore / 70)) * .14)               # deep water: a little darker

diff --git a/app/README.md b/app/README.md
@@ -39,7 +39,7 @@ The README of the data package (IslamthonDataandstuff) explains every column.
 
 ## The map
 
-The map is a period map, drawn as SVG: coastlines only (Natural Earth 1:50m, public domain), with the regions, powers and seas of the time from `map_labels.csv`. It draws no modern borders, so no country outline is approximated. Region positions are approximate and labelled for orientation only; a region the sources say Islam reached is named in gold, and only places glow, at their own coordinates. The terrain is real data, also from Natural Earth (public domain): shaded relief (1:10m), the sand seas (Rub' al-Khali, al-Nafud, Wahiba), the fertile lands (the Nile delta, Mesopotamia, the Levant coast), rivers and natural lakes. Modern canals and reservoirs (Suez, Lake Nasser, Lake Assad...) are left out. The soft layers are baked into images (`public/map/`), so the map stays smooth while it glides. To regenerate the coastline after changing the map's extent, run `node scripts/build-land.mjs`, then `python3 scripts/build-terrain.py <folder with the Natural Earth files>` (the script lists the downloads).
+The map is a period map, drawn as SVG: coastlines only (Natural Earth 1:50m, public domain), with the regions, powers and seas of the time from `map_labels.csv`. It draws no modern borders, so no country outline is approximated. Region positions are approximate and labelled for orientation only; a region the sources say Islam reached is named in gold, and only places glow, at their own coordinates. The terrain is real data, also from Natural Earth (public domain): shaded relief (1:10m) as soft shadows, a faint green on the fertile lands (the Nile delta, Mesopotamia, the Levant coast), rivers and natural lakes. Modern canals and reservoirs (Suez, Lake Nasser, Lake Assad...) are left out. The soft layers are baked into images (`public/map/`), so the map stays smooth while it glides. To regenerate the coastline after changing the map's extent, run `node scripts/build-land.mjs`, then `python3 scripts/build-terrain.py <folder with the Natural Earth files>` (the script lists the downloads).
 
 ## Reading the verses
 
